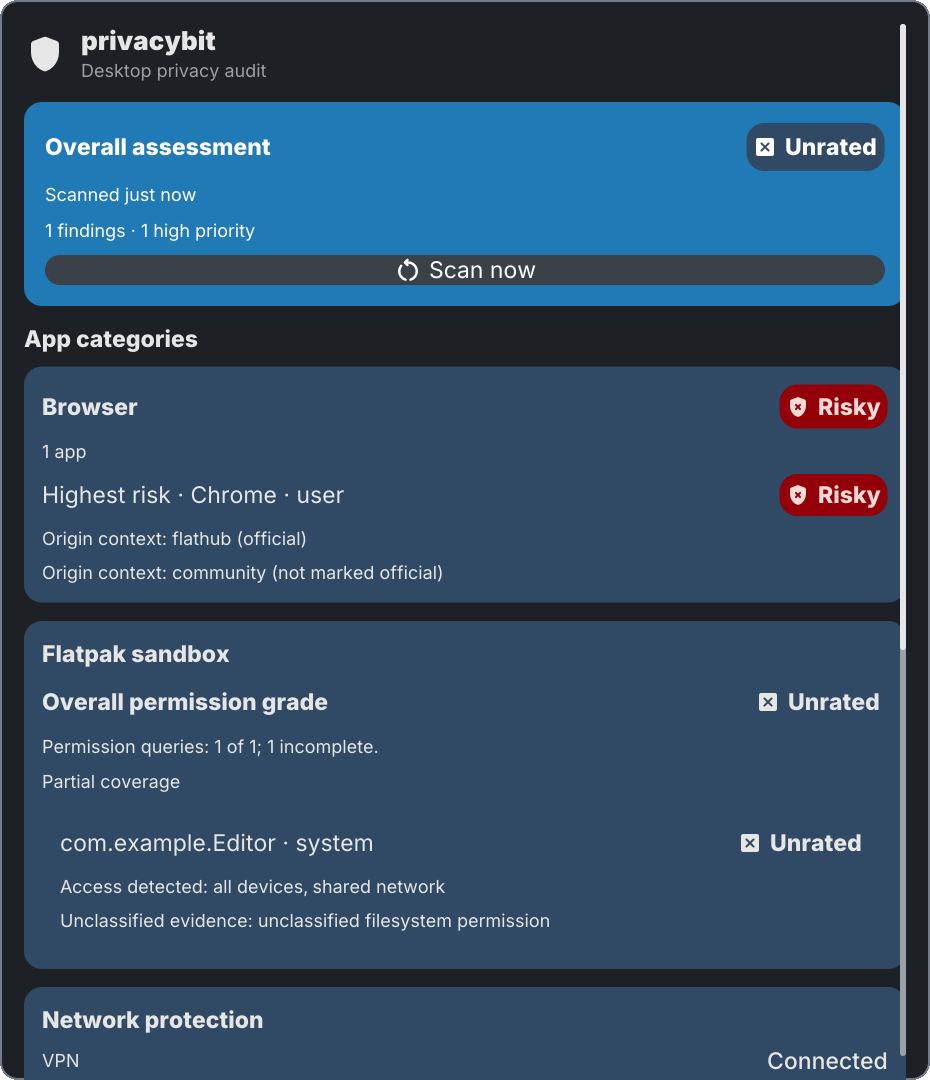
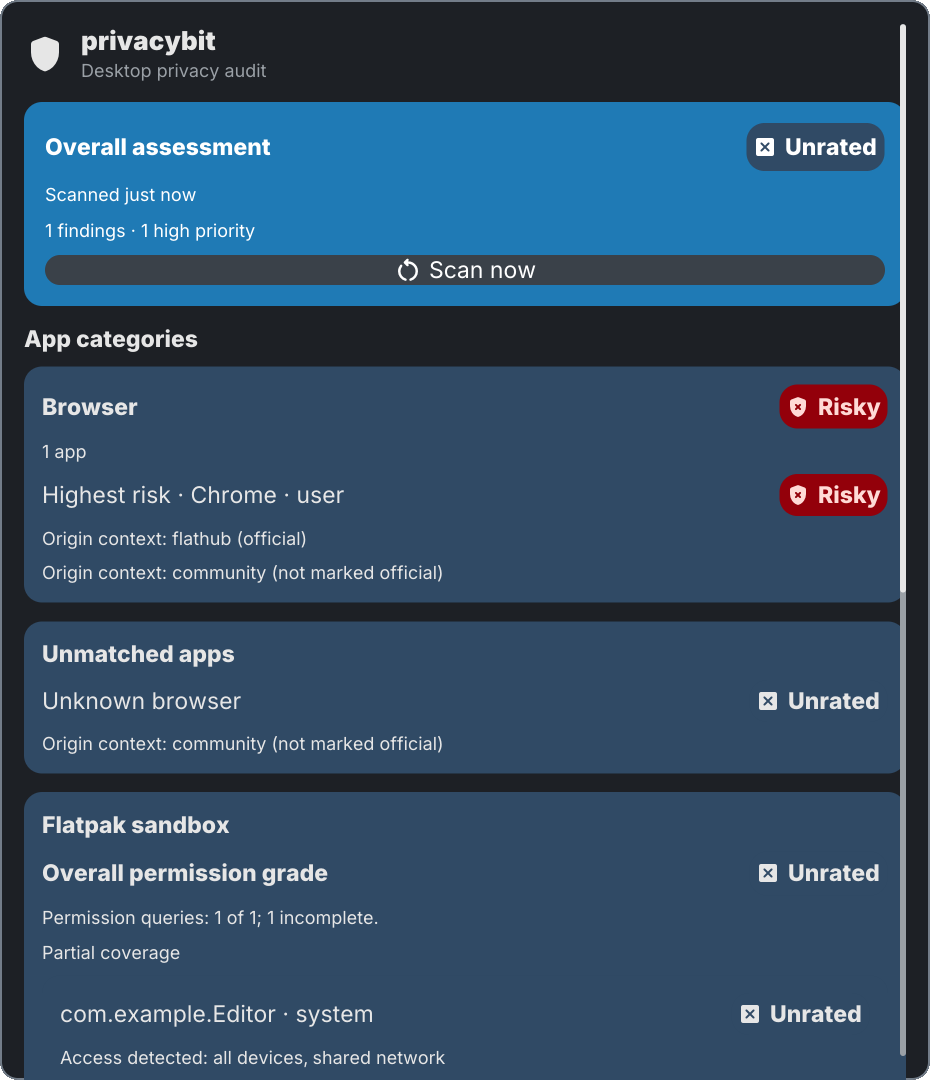
fix(privacy): show unmatched origin context

diff --git a/plugins/privacy/snapshot.go b/plugins/privacy/snapshot.go
@@ -27,6 +27,7 @@ const (
 	maxReduced           = 12
 	maxSandboxApps       = 4
 	maxSandboxEvidence   = 8
+	maxUnmatchedApps     = 12
 	maxOriginsPerApp     = 8
 	maxOriginSourceBytes = 80
 	maxLabelBytes        = 160
@@ -47,6 +48,10 @@ type Snapshot struct {
 	CategoriesShown     int        `json:"categories_shown"`
 	CategoriesTotal     int        `json:"categories_total"`
 	CategoriesTruncated bool       `json:"categories_truncated"`
+	Unmatched           []App      `json:"unmatched,omitempty"`
+	UnmatchedShown      int        `json:"unmatched_shown,omitempty"`
+	UnmatchedTotal      int        `json:"unmatched_total,omitempty"`
+	UnmatchedTruncated  bool       `json:"unmatched_truncated,omitempty"`
 	Findings            []Finding  `json:"findings"`
 	FindingsShown       int        `json:"findings_shown"`
 	FindingsTotal       int        `json:"findings_total"`
@@ -207,7 +212,10 @@ type auditSnapshot struct {
 		InstalledTruncated bool   `json:"installed_truncated"`
 		Worst              *App   `json:"worst"`
 	} `json:"categories"`
-	Findings []struct {
+	Unmatched          []App `json:"unmatched"`
+	UnmatchedTotal     int   `json:"unmatched_total"`
+	UnmatchedTruncated bool  `json:"unmatched_truncated"`
+	Findings           []struct {
 		ID       string   `json:"id"`
 		Severity string   `json:"severity"`
 		Grade    string   `json:"grade"`
@@ -378,6 +386,27 @@ func ParseAuditOutput(data []byte) (Snapshot, error) {
 	}
 	out.CategoriesShown = len(out.Categories)
 	out.CategoriesTruncated = out.CategoriesTruncated || out.CategoriesShown < out.CategoriesTotal
+	if input.UnmatchedTotal < 0 {
+		return Snapshot{}, errors.New("privacybit returned a negative unmatched app count")
+	}
+	out.UnmatchedTotal = max(input.UnmatchedTotal, len(input.Unmatched))
+	out.UnmatchedTruncated = input.UnmatchedTruncated
+	for _, app := range input.Unmatched {
+		if app.Grade != "unknown" {
+			return Snapshot{}, fmt.Errorf("privacybit returned non-unknown grade %q for unmatched app %q", app.Grade, app.Name)
+		}
+		projectedApp, err := projectApp(app)
+		if err != nil {
+			return Snapshot{}, fmt.Errorf("privacybit returned invalid origin context for unmatched app %q: %w", app.Name, err)
+		}
+		out.Unmatched = append(out.Unmatched, projectedApp)
+	}
+	if len(out.Unmatched) > maxUnmatchedApps {
+		out.Unmatched = out.Unmatched[:maxUnmatchedApps]
+		out.UnmatchedTruncated = true
+	}
+	out.UnmatchedShown = len(out.Unmatched)
+	out.UnmatchedTruncated = out.UnmatchedTruncated || out.UnmatchedShown < out.UnmatchedTotal
 
 	out.FindingsTotal = input.FindingsTotal
 	if out.FindingsTotal < len(input.Findings) {

diff --git a/plugins/privacy/snapshot_test.go b/plugins/privacy/snapshot_test.go
@@ -166,6 +166,40 @@ func TestParseAuditOutputAcceptsLegacyAppWithoutOriginContext(t *testing.T) {
 	}
 }
 
+func TestParseAuditOutputPreservesBoundedUnmatchedOrigins(t *testing.T) {
+	var unmatched strings.Builder
+	for i := range 15 {
+		if i > 0 {
+			unmatched.WriteByte(',')
+		}
+		fmt.Fprintf(&unmatched, `{"name":"Unknown %02d","grade":"unknown","origins":[{"source":"repo-%02d","official":false}],"origins_shown":1,"origins_total":1}`, i, i)
+	}
+	input := fmt.Sprintf(`{"t":"done","snapshot":{"schema":1,"available":true,"generated_at":"2026-10-23T10:00:00Z","overall":{"grade":"green"},"unmatched":[%s],"unmatched_total":15}}`, unmatched.String())
+	snapshot, err := ParseAuditOutput([]byte(input))
+	if err != nil {
+		t.Fatal(err)
+	}
+	encoded, err := json.Marshal(snapshot)
+	if err != nil {
+		t.Fatal(err)
+	}
+	var got struct {
+		Unmatched          []App `json:"unmatched"`
+		UnmatchedShown     int   `json:"unmatched_shown"`
+		UnmatchedTotal     int   `json:"unmatched_total"`
+		UnmatchedTruncated bool  `json:"unmatched_truncated"`
+	}
+	if err := json.Unmarshal(encoded, &got); err != nil {
+		t.Fatal(err)
+	}
+	if len(got.Unmatched) != 12 || got.UnmatchedShown != 12 || got.UnmatchedTotal != 15 || !got.UnmatchedTruncated {
+		t.Fatalf("unmatched projection = %d shown %d of %d truncated=%t, want 12 of 15", len(got.Unmatched), got.UnmatchedShown, got.UnmatchedTotal, got.UnmatchedTruncated)
+	}
+	if len(got.Unmatched[0].Origins) != 1 || got.Unmatched[0].Grade != "unknown" {
+		t.Fatalf("unmatched app projection = %+v, want origin context and unknown grade", got.Unmatched[0])
+	}
+}
+
 func TestParseAuditOutputBoundsFlatpakSandboxEvidence(t *testing.T) {
 	labels := make([]string, maxSandboxEvidence+2)
 	for i := range labels {

diff --git a/plugins/privacy/view.go b/plugins/privacy/view.go
@@ -85,6 +85,9 @@ func PanelTree(snapshot Snapshot, now time.Time, scanning bool, scanMessage stri
 		return root
 	}
 	sections := []*v1.Node{categorySection(snapshot)}
+	if unmatched := unmatchedSection(snapshot); unmatched != nil {
+		sections = append(sections, unmatched)
+	}
 	if sandbox := sandboxSection(snapshot.Sandbox); sandbox != nil {
 		sections = append(sections, sandbox)
 	}
@@ -228,6 +231,28 @@ func appendOriginContext(rows []*v1.Node, app App) []*v1.Node {
 			Size: "caption", Tone: v1.ToneSubtle})
 	}
 	return rows
+}
+
+func unmatchedSection(snapshot Snapshot) *v1.Node {
+	if len(snapshot.Unmatched) == 0 && !snapshot.UnmatchedTruncated {
+		return nil
+	}
+	rows := []*v1.Node{sectionTitle("Unmatched apps")}
+	for index, app := range snapshot.Unmatched {
+		name := text(app.Name, maxLabelBytes)
+		if app.Scope != "" {
+			name += " · " + text(app.Scope, maxLabelBytes)
+		}
+		rows = append(rows, &v1.Node{Kind: v1.KindRow, Gap: 8, PinEnd: true, Children: []*v1.Node{
+			{Kind: v1.KindText, Text: name, MaxWidth: 400},
+			gradeChip("unknown", fmt.Sprintf("grade-unmatched-%d", index)),
+		}})
+		rows = appendOriginContext(rows, app)
+	}
+	if snapshot.UnmatchedTruncated {
+		rows = append(rows, &v1.Node{Kind: v1.KindText, Text: fmt.Sprintf("Showing %d of %d unmatched apps.", snapshot.UnmatchedShown, snapshot.UnmatchedTotal), Size: "caption", Tone: v1.ToneSubtle})
+	}
+	return card("privacy-unmatched", rows...)
 }
 
 func sandboxSection(sandbox *Sandbox) *v1.Node {

diff --git a/plugins/privacy/view_test.go b/plugins/privacy/view_test.go
@@ -245,6 +245,20 @@ func TestPrivacyPanelShowsOriginForWorstAppOutsideTheVisibleList(t *testing.T) {
 	}
 }
 
+func TestPrivacyPanelShowsUnmatchedOriginContext(t *testing.T) {
+	input := `{"t":"done","snapshot":{"schema":1,"available":true,"generated_at":"2026-10-23T10:00:00Z","overall":{"grade":"green"},"unmatched":[{"name":"Mystery browser","grade":"unknown","origins":[{"source":"community","official":false}],"origins_shown":1,"origins_total":1}],"unmatched_total":1}}`
+	snapshot, err := ParseAuditOutput([]byte(input))
+	if err != nil {
+		t.Fatal(err)
+	}
+	root := PanelTree(snapshot, time.Date(2026, 10, 23, 10, 0, 1, 0, time.UTC), false, "")
+	for _, want := range []string{"Unmatched apps", "Mystery browser", "Unrated", "Origin context: community (not marked official)"} {
+		if !treeHasText(root, want) {
+			t.Errorf("privacy panel omitted %q", want)
+		}
+	}
+}
+
 func TestPrivacyPanelExplainsWhenNoFlatpakAppsAreInstalled(t *testing.T) {
 	now := time.Date(2026, 10, 23, 10, 0, 0, 0, time.UTC)
 	input := `{"t":"done","snapshot":{"schema":1,"available":true,"generated_at":"2026-10-23T10:00:00Z","overall":{"grade":"green"},"sandbox":{"applicable":false,"grade":"unknown","apps":[],"apps_shown":0,"apps_total":0,"reason":"No Flatpak applications are installed."}}}`

diff --git a/plugins/privacy/capture_test.go b/plugins/privacy/capture_test.go
@@ -17,6 +17,11 @@ func TestCapturePanel(t *testing.T) {
 	app := &snapshot.Categories[0].Installed[0]
 	app.Origins = []AppOrigin{{Source: "flathub", Official: true}, {Source: "community"}}
 	app.OriginsShown, app.OriginsTotal = len(app.Origins), len(app.Origins)
+	snapshot.Unmatched = []App{{
+		Name: "Unknown browser", Grade: "unknown", Origins: []AppOrigin{{Source: "community"}},
+		OriginsShown: 1, OriginsTotal: 1,
+	}}
+	snapshot.UnmatchedShown, snapshot.UnmatchedTotal = 1, 1
 	snapshot.Sandbox = &Sandbox{
 		Applicable: true, Grade: "unknown", AppsTotal: 1, AppsChecked: 1,
 		AppsIncomplete: 1, PartialCoverage: true,

diff --git a/plugins/privacy/README.md b/plugins/privacy/README.md
@@ -11,13 +11,14 @@ In **Settings → Bar**, add **Privacybit** from the plugin widgets. Click its
 shield and grade label in the bar to open the panel. The Control Centre's
 **Privacy** page also has an **Open full audit** button.
 
-The panel shows the overall grade, app categories, origin context, a separate
-Flatpak sandbox grade with bounded per-installation evidence, VPN observations,
-findings, and coverage limits. Origin names include whether each source is
-marked official; they do not change grades. When the app list is capped,
-highest-risk copies appear first. Use **Scan now** to refresh the audit. The bar
-and Control Centre read the same published result. Older or unavailable results
-appear as **Unrated**, and capped lists say how many entries are hidden.
+The panel shows the overall grade, app categories, unmatched apps, origin
+context, a separate Flatpak sandbox grade with bounded per-installation
+evidence, VPN observations, findings, and coverage limits. Unmatched apps stay
+**Unrated**. Origin names include whether each source is marked official; they
+do not change grades. When a list is capped, the panel says how many entries it
+shows. Use **Scan now** to refresh the audit. The bar and Control Centre read
+the same published result. Older or unavailable results also appear as
+**Unrated**.
 
 Install `privacybit` separately. The plugin checks `PATH`, then
 `~/.local/bin/privacybit`; if neither is executable, it shows an explicit
